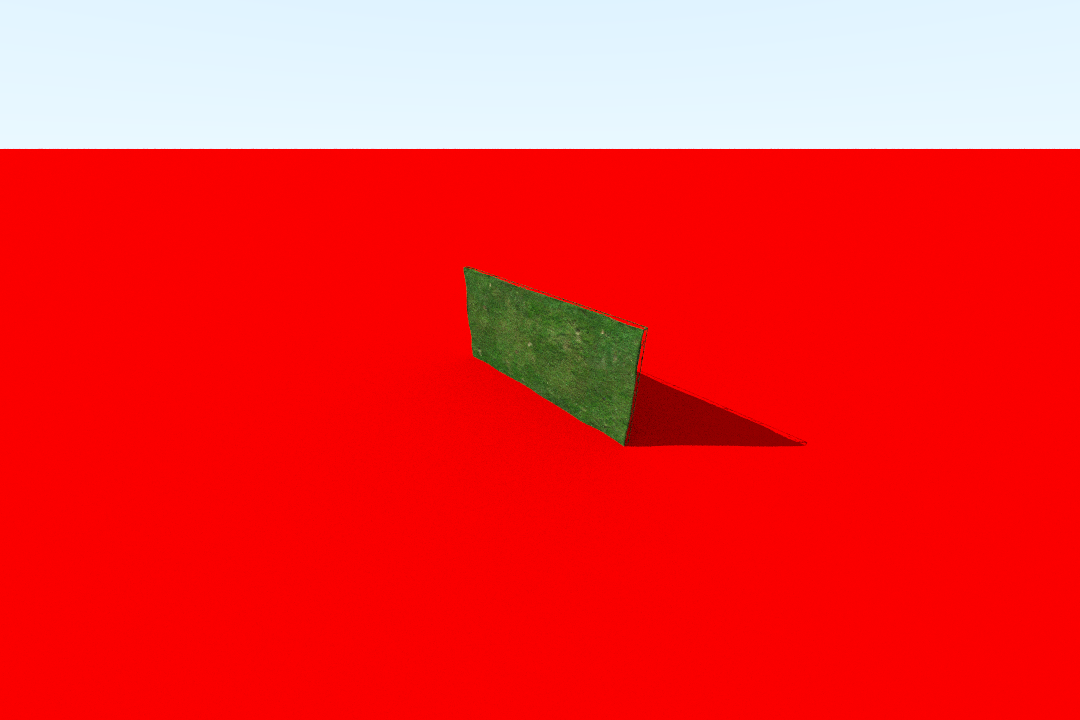
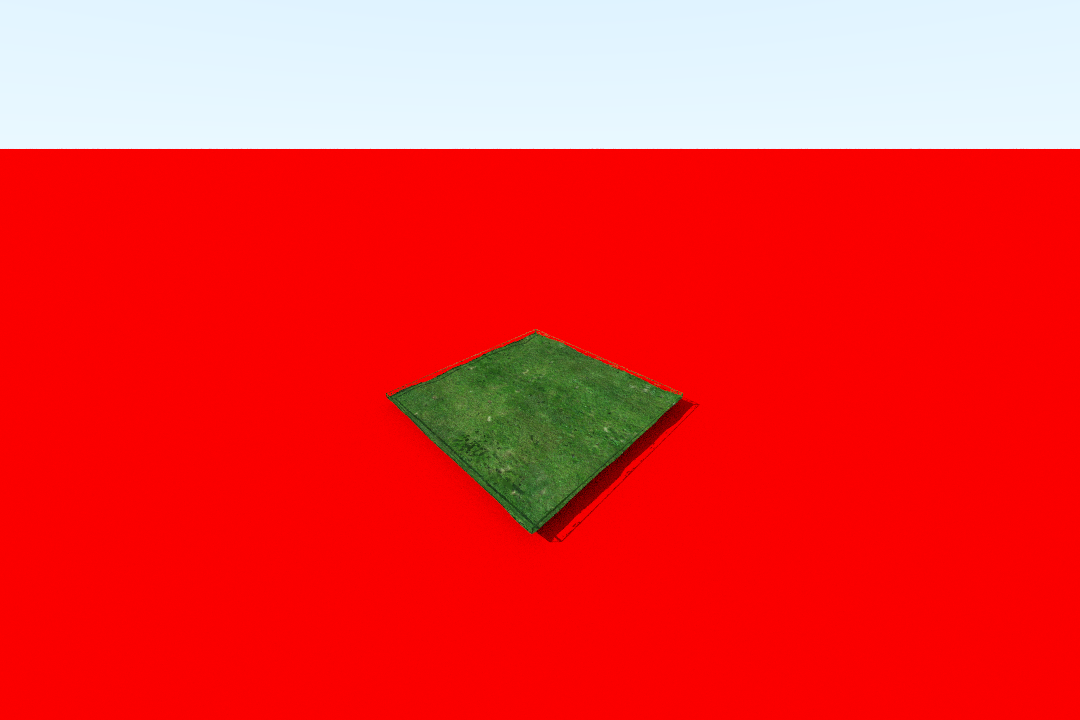
fixed obj loader and added multi axis rotation

Changed region(s): [[0.3667, 0.3667, 0.7333, 0.7639]]

diff --git a/src/main.cpp b/src/main.cpp
@@ -26,7 +26,7 @@
 #include "../textures/image_texture.h"
 #include "../lights/point_light.h"
 #include "../lights/directional_light.h"
-#include "../objects/transform.h"
+#include "../objects/rotate.h"
 #include <memory>
  
 
@@ -43,31 +43,21 @@ int main() {
   // lights.push_back(std::make_shared<PointLight>(Vec3(-20, 20, 20), Vec3(1,1,1), 100.0));
   lights.push_back(std::make_shared<DirectionalLight>(Vec3(-1,1,1), Vec3(1,1,1), 1));
 
-  auto black = std::make_shared<Lambertian>(std::make_shared<SolidColor>(Vec3(1, 0, 0)));
-  auto tinted_glass = std::make_shared<Dielectric>(1.5, std::make_shared<SolidColor>(Vec3(1,1,1)));
-  auto green = std::make_shared<Lambertian>(std::make_shared<SolidColor>(Vec3(0, 1, 0) * 0.2));
-  auto gold_tint = std::make_shared<Metal>(std::make_shared<SolidColor>(Vec3(1.0, 1.0, 1.0)), 0.0);
-  auto earth_mat = std::make_shared<Lambertian>(std::make_shared<ImageTexture>("../assets/earth.png"));
+  auto mat1 = std::make_shared<Lambertian>(std::make_shared<SolidColor>(Vec3(1, 0, 0)));
+  auto mat2 = std::make_shared<Lambertian>(std::make_shared<SolidColor>(Vec3(0, 1, 0) * 0.2));
+  auto mat3 = std::make_shared<Dielectric>(1.5, std::make_shared<SolidColor>(Vec3(1,1,1)));
+  auto mat4 = std::make_shared<Metal>(std::make_shared<SolidColor>(Vec3(1.0, 1.0, 1.0)), 0.0);
+  auto mat5 = std::make_shared<Lambertian>(std::make_shared<ImageTexture>("../assets/earth.png"));
 
-  world.add(std::make_shared<Plane>(Vec3(0, 0, 0), Vec3(0,1,0), black));
-  
-  // load triangles into a hittable list first
-  auto bunny_list = std::make_shared<HittableList>();
-  auto triangles = load_obj_triangle("../assets/grass/10450_Rectangular_Grass_Patch_v1_iterations-2.obj", green, 0.1, Vec3(0,0,0));
+  world.add(std::make_shared<Plane>(Vec3(0, -2, 0), Vec3(0,1,0), mat1));
+
+  auto obj_list = std::make_shared<HittableList>();
+  auto triangles = load_obj_triangle("../assets/grass/10450_Rectangular_Grass_Patch_v1_iterations-2.obj", mat2, 0.1, Vec3(0,1,0));
   for (auto t : triangles)
-      world.add(t);
+      obj_list -> add(t);  
 
-  // // build a BVH over just the bunny
-  // auto bunny_bvh = std::make_shared<BVHNode>(bunny_list->objects, 0, bunny_list->objects.size());
-
-  // // rotate the whole thing as one unit
-  // auto rotated_bunny = std::make_shared<Transform>(bunny_bvh, 0);
-  // world.add(rotated_bunny);
-
-  // world.add(std::make_shared<Sphere>(Vec3(0, 0, 0), 20, earth_mat));
-  // world.add(std::make_shared<Sphere>(Vec3(4, 0, 0), 2, tinted_glass));
-  
-
+  auto obj_bvh = std::make_shared<BVHNode>(obj_list->objects, 0, obj_list->objects.size());
+  world.add(std::make_shared<Rotate>(obj_bvh, 90, 0, 0));
   BVHNode world_bvh(world.objects, 0, world.objects.size());
   
   // Camera setup
@@ -86,10 +76,6 @@ int main() {
   for (int i = 0; i < samples_per_pixel; ++i) {
     // Rendering pixels
     render_image(width, height, 1, max_depth, camera, world_bvh, lights, framebuffer);
-    
     save_png("../image.png", width, height, framebuffer, i);
-    // if (i % 10 == 0) {
-    //   std::cout << "Saved sample" << std::endl;
-    // }
   }
 }

diff --git a/objects/rotate.h b/objects/rotate.h
@@ -1,0 +1,83 @@
+#pragma once
+#include "../core/hittable.h"
+#include <memory>
+#include <cmath>
+
+class Rotate : public Hittable {
+public:
+  std::shared_ptr<Hittable> object;
+  double sin_x, cos_x;
+  double sin_y, cos_y;
+  double sin_z, cos_z;
+
+  Rotate(std::shared_ptr<Hittable> obj, double deg_x, double deg_y, double deg_z) : object(obj) {
+    auto toRad = [](double d) { return d * PI / 180.0; };
+    sin_x = sin(toRad(deg_x)); cos_x = cos(toRad(deg_x));
+    sin_y = sin(toRad(deg_y)); cos_y = cos(toRad(deg_y));
+    sin_z = sin(toRad(deg_z)); cos_z = cos(toRad(deg_z));
+  }
+
+  Vec3 rotate(const Vec3 &v) const {
+    // Apply X then Y then Z rotation
+    // X axis rotation
+    double y1 = cos_x * v.y - sin_x * v.z;
+    double z1 = sin_x * v.y + cos_x * v.z;
+    // Y axis rotation
+    double x2 =  cos_y * v.x + sin_y * z1;
+    double z2 = -sin_y * v.x + cos_y * z1;
+    // Z axis rotation
+    double x3 = cos_z * x2 - sin_z * y1;
+    double y3 = sin_z * x2 + cos_z * y1;
+    return Vec3(x3, y3, z2);
+  }
+
+  Vec3 rotate_inverse(const Vec3 &v) const {
+    // Inverse = reverse order, negate angles
+    // Inverse Z
+    double x1 =  cos_z * v.x + sin_z * v.y;
+    double y1 = -sin_z * v.x + cos_z * v.y;
+    // Inverse Y
+    double x2 = cos_y * x1 - sin_y * v.z;
+    double z2 = sin_y * x1 + cos_y * v.z;
+    // Inverse X
+    double y3 =  cos_x * y1 + sin_x * z2;
+    double z3 = -sin_x * y1 + cos_x * z2;
+    return Vec3(x2, y3, z3);
+  }
+
+  bool hit(const Ray &ray, double t_min, double t_max, HitRecord &rec) const override {
+    // rotate ray into object space using inverse rotation
+    Vec3 ro = rotate_inverse(ray.origin);
+    Vec3 rd = rotate_inverse(ray.direction);
+
+    Ray rotated_ray(ro, rd);
+    if (!object->hit(rotated_ray, t_min, t_max, rec)) return false;
+
+    // rotate hit results back to world space
+    rec.point = rotate(rec.point);
+    Vec3 n = rotate(rec.normal).normalize();
+    rec.set_face_normal(Ray(rec.point, ray.direction), n);
+    return true;
+  }
+
+  bool bounding_box(AABB &output_box) const override {
+    AABB box;
+    if (!object->bounding_box(box)) return false;
+
+    Vec3 mn(1e9,1e9,1e9), mx(-1e9,-1e9,-1e9);
+    for (int i = 0; i < 2; ++i)
+    for (int j = 0; j < 2; ++j)
+    for (int k = 0; k < 2; ++k) {
+      Vec3 corner(
+        i ? box.maximum.x : box.minimum.x,
+        j ? box.maximum.y : box.minimum.y,
+        k ? box.maximum.z : box.minimum.z
+      );
+      Vec3 rotated = rotate(corner);
+      mn.x = fmin(mn.x, rotated.x); mn.y = fmin(mn.y, rotated.y); mn.z = fmin(mn.z, rotated.z);
+      mx.x = fmax(mx.x, rotated.x); mx.y = fmax(mx.y, rotated.y); mx.z = fmax(mx.z, rotated.z);
+    }
+    output_box = AABB(mn, mx);
+    return true;
+  }
+};

diff --git a/objects/obj_loader.cpp b/objects/obj_loader.cpp
@@ -1,50 +1,6 @@
 #define TINYOBJLOADER_IMPLEMENTATION
 #include "obj_loader.h"
 
-std::shared_ptr<Mesh> load_obj(const std::string &filename, std::shared_ptr<Material> mat, double scale, Vec3 offset) {
-  tinyobj::attrib_t attrib;
-  std::vector<tinyobj::shape_t> shapes;
-  std::vector<tinyobj::material_t> materials;
-
-  std::string warn, err;
-  bool ret = tinyobj::LoadObj(&attrib, &shapes, &materials, &warn, &err, filename.c_str());
-  if (!warn.empty()) std::cout << warn << std::endl;
-  if (!err.empty()) std::cerr << err << std::endl;
-  if (!ret) {
-      std::cerr << "Failed to load OBJ: " << filename << std::endl;
-      return nullptr;
-  }
-
-  auto mesh = std::make_shared<Mesh>();
-
-  for (const auto &shape : shapes) {
-    size_t index_offset = 0;
-
-    for (size_t f = 0; f < shape.mesh.num_face_vertices.size(); ++f) {
-      int fv = shape.mesh.num_face_vertices[f];
-      Vec3 verts[3];
-
-      for (size_t v = 0; v < fv; ++v) {
-        tinyobj::index_t idx = shape.mesh.indices[index_offset + v];
-        float vx = attrib.vertices[3*idx.vertex_index];
-        float vy = attrib.vertices[3*idx.vertex_index + 1];
-        float vz = attrib.vertices[3*idx.vertex_index + 2];
-
-        Vec3 vertex(vx, vy, vz);
-        vertex = vertex * scale;
-        vertex = vertex + offset;
-
-        verts[v] = vertex;
-      }
-
-      mesh -> add (std::make_shared<Triangle>(verts[0], verts[1], verts[2], mat));
-      index_offset += fv;
-    }
-  }
-
-  return mesh;
-}
-
 std::vector <std::shared_ptr<Triangle>> load_obj_triangle(const std::string &path, std::shared_ptr<Material> default_mat, double scale, Vec3 offset) {
   std::vector<std::shared_ptr<Triangle>> triangles;
   tinyobj::attrib_t attrib;
@@ -71,6 +27,11 @@ std::vector <std::shared_ptr<Triangle>> load_obj_triangle(const std::string &pat
     if (m.illum == 3) {
       double fuzz = 1.0 - m.shininess / 1000.0;
       mats.push_back(std::make_shared<Metal>(tex, fuzz));
+    } else if (m.illum == 5 || m.illum == 7) {
+      double dissolve = m.dissolve; // 1.0 = fully opaque, 0.0 = fully transparent
+      if (dissolve < 0.99) {
+        mats.push_back(std::make_shared<Dielectric>(m.ior > 0 ? m.ior : 1.5, 
+                      std::make_shared<SolidColor>(Vec3(m.transmittance[0], m.transmittance[1], m.transmittance[2]))));
     } else {
       mats.push_back(std::make_shared<Lambertian>(tex));
     }

diff --git a/objects/plane.cpp b/objects/plane.cpp
@@ -10,16 +10,19 @@ bool Plane::hit(const Ray &ray, double t_min, double t_max, HitRecord &rec) cons
   if (t < t_min || t > t_max) return false;
 
   Vec3 hitpoint = ray.at(t);
-  if (side > 0) {
-    Vec3 local = hitpoint - point;
-    Vec3 u_axis = normal.cross(Vec3(0, 1, 0));
-    if (u_axis.norm() < 1e-3) u_axis = normal.cross(Vec3(1, 0, 0));
-    u_axis = u_axis.normalize();
-    Vec3 v_axis = normal.cross(u_axis);
 
+
+  Vec3 u_axis = normal.cross(Vec3(0, 1, 0));
+  if (u_axis.norm() < 1e-3) u_axis = normal.cross(Vec3(1, 0, 0));
+  u_axis = u_axis.normalize();
+  Vec3 v_axis = normal.cross(u_axis);
+  Vec3 local = hitpoint - point;
+  rec.u = fmod(fabs(local.dot(u_axis) * 0.1), 1.0);  // 0.1 = tiling scale
+  rec.v = fmod(fabs(local.dot(v_axis) * 0.1), 1.0);
+  
+  if (side > 0) {
     double u = local.dot(u_axis);
     double v = local.dot(v_axis);
-
     if (fabs(u) > side/2 || fabs(v) > side/2) return false; // not in plane range
   }
 

diff --git a/objects/obj_loader.h b/objects/obj_loader.h
@@ -7,6 +7,7 @@
 #include "../textures/solid_color.h"
 #include "../materials/lambertian.h"
 #include "../materials/metal.h"
+#include "../materials/dielectric.h"
 
 std::shared_ptr<Mesh> load_obj(const std::string &filename, std::shared_ptr<Material> mat, double scale, Vec3 offset);
 std::vector <std::shared_ptr<Triangle>> load_obj_triangle(const std::string &path, std::shared_ptr<Material> mat, double scale=1.0, Vec3 offset=Vec3(0,0,0));
